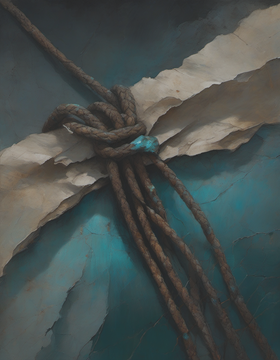
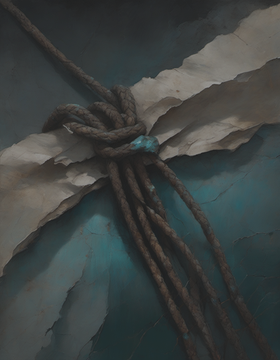
Card art sample: refine round 2, PNG under 900 KB, darker less saturated background

diff --git a/design/assets/specs/card_art_sample.md b/design/assets/specs/card_art_sample.md
@@ -7,7 +7,7 @@
 | Asset class | card_art |
 | Owner | game-artist |
 | Priority | medium (slice piece 3) |
-| Status | art-ready candidate; FAILS file-size budget (1.16 MB vs 900 KB), see Provenance |
+| Status | art-ready (802,249 bytes, within the 900 KB budget); not production-accepted until SOU-73 |
 | Approval state | not approved (approver: director, then Board) |
 
 ## Use
@@ -52,10 +52,10 @@
 - Prompt text: "dark fantasy painted illustration, close view of one single torn sheet of old parchment with ragged edges, bound to a thick frayed cord that loops across it, resting on wet dark stone, black water behind, warm amber glow from upper left, cool blue-grey shadows, a small copper tag on the cord, a small teal knot, muted painterly, empty page, no text, no letters, no lamp, no book"
 - Negative prompt: "text, letters, writing, lamp, lantern, candle, book, watermark, frame, border, people"
 - Reference images used as generator input: none
-- Editing steps: `art-ops.py resize <s402 png> assets/slice/cards/card_art_sample.png --size 700 900` (Lanczos, same 7:9 ratio). Previews: `grade --contrast 0.6`, then `resize --size 280 360`.
+- Editing steps: `art-ops.py resize <s402 png> <tmp> --size 700 900` (Lanczos, 7:9); refine round 2 (size and background fix): `resize <700x900> <tmp> --size 420 540 --fit stretch`, `resize <tmp> <tmp2> --size 700 900 --fit stretch` (softens noise so the PNG compresses), then `grade <tmp2> assets/slice/cards/card_art_sample.png --saturation 0.7 --brightness 0.85` (darker, less saturated teal wash). Previews: `grade --contrast 0.6`, then `resize --size 280 360`.
 - Images generated: 11 of 32 (7 first round, 4 refine round 1)
 - Licence notes: output of an allowed model, no input images.
-- Known gap (Tool capability failure: PNG size reduction): the PNG is 1,161,980 bytes, over the 900 KB budget. `art-ops.py` has no quantise or PNG optimise; softening the image by 20% still gave 1.0 MB. Needs a PNG optimiser (e.g. 256-colour quantise) or a budget decision.
+- File size: 802,249 bytes after refine round 2 (was 1,161,980); budget 921,600. Cost: slightly softer fine texture.
 - Originality check: _pending (director)_
 
 ## Acceptance checklist
